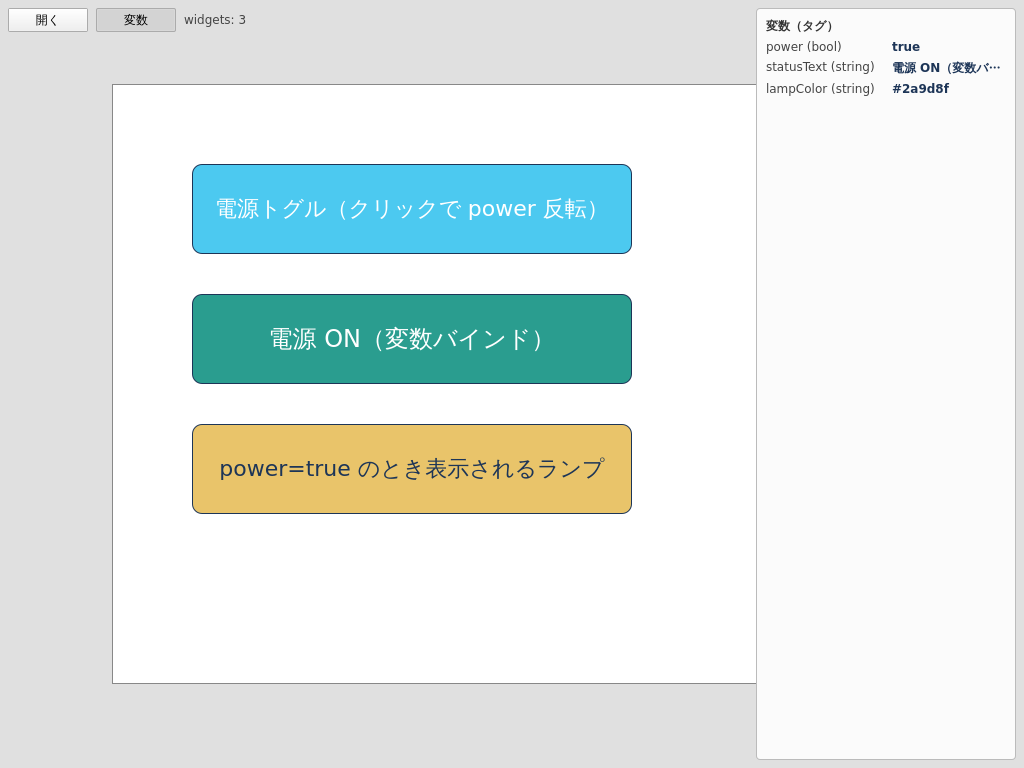
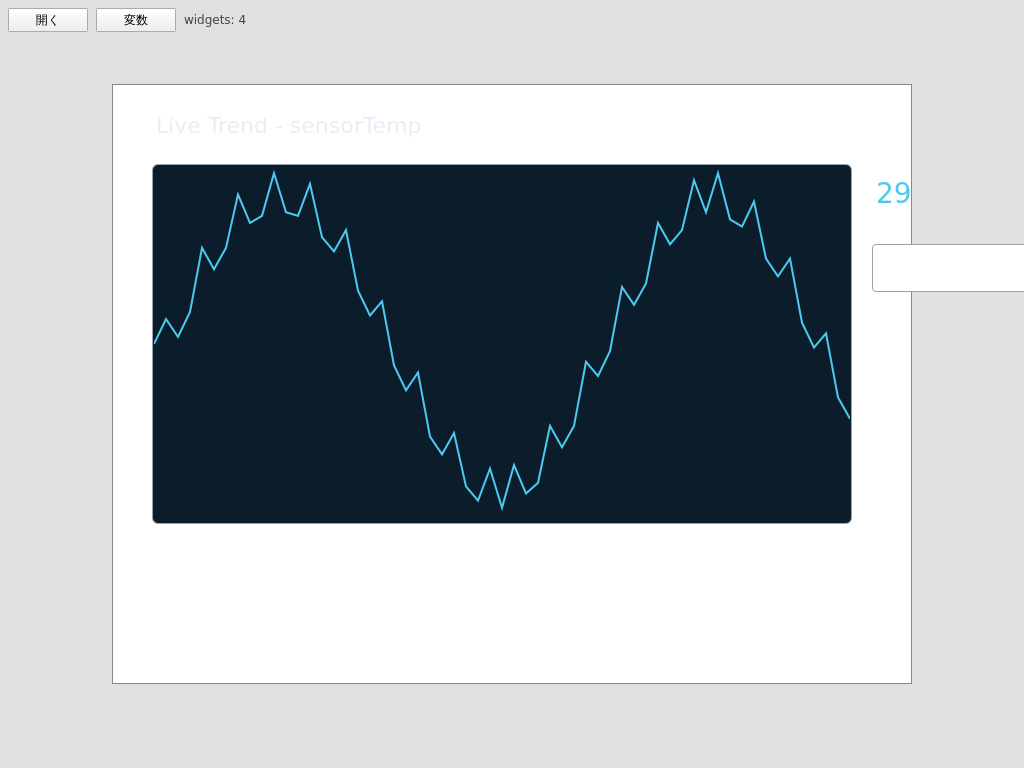
Task T-D: Trend cross-app ライブ E2E + simulator.png + Phase 8 完了同期
- tests/e2e/test_trend_live.py 新設：①Editor 段＝fixture を --open→saveTo→保存 JSON 直接
  assert（type:"Trend" / value binding / pointCount）②Simulator 段＝操作用 NumericField を
  setStringProperty+commitValue で 3 回（25/40/15）確定 → Trend(hmiTrend) の公開 sampleCount 増加・
  lastValue 追従を getStringProperty で観測（Canvas ピクセルは見ず公開プロパティで検証）
- tests/e2e/CMakeLists.txt：e2e_trend_live 登録（TIMEOUT 60 / LABELS e2e）
- simulator.png：Trend ライブ折れ線描画状態へ撮り直し（濃紺背景＋水色折れ線＋追従値）+ README キャプション
- 常駐文書を Phase 8 完了で同期（plan 進捗表 / CLAUDE.md 現在のフェーズ〔198 行〕/ README 現在地 +
  Widget 列挙に Trend 追加 / AGENTS スコープ / mvp-task-runner / development-history）

ctest 23/23 緑（unit 11 + e2e 12、e2e_trend_live 含む）。Schema/HmiTrend/delegate 無改変。

diff --git a/tests/e2e/test_trend_live.py b/tests/e2e/test_trend_live.py
@@ -1,0 +1,307 @@
+"""Phase 8 Task T-D: Trend のライブサンプリングを観測する cross-app E2E。
+
+Phase 8 で追加した新 Widget 種別「Trend」（QML ``Canvas`` 自描画のライブ折れ線）は、
+既存 ``bindings``（``{property:"value", variable:X}``）の「読み」を再利用して
+変数の現在値をサンプル源にする。本テストは Phase 8 の締めとして：
+
+1. **Editor 段（round-trip 担保）**：``sensorTemp``（int）変数と、それに ``value`` binding で
+   結ばれた Trend（``trend001``）+ 同じ変数に ``value`` binding で結ばれた操作用
+   NumericField（``feeder001``）を持つ JSON を Editor に ``--open`` で読ませ、
+   ``saveTo`` で別パスへ保存する。保存 JSON を Python で直接 assert：
+   ``type:"Trend"`` / Trend の value binding / ``pointCount`` が round-trip すること。
+2. **Simulator 段（本 E2E の主眼＝ライブサンプリング観測）**：保存 JSON を Simulator に
+   ``--open`` で読ませ、Trend（``HmiTrend``, objectName ``hmiTrend``）の初期 ``sampleCount`` を
+   ``getStringProperty`` で読む。Canvas のピクセルは offscreen で不可視なので **公開
+   プロパティ ``sampleCount`` / ``lastValue`` だけ**で「変数変化 → サンプル取り込み」を観測する。
+   操作用 NumericField の内部 ``TextField.text`` を ``setStringProperty`` で設定し
+   **公開メソッド ``commitValue()`` を ``invokeMethod`` で叩いて確定を模す**（Spix は
+   実テキスト入力 = ``editingFinished`` を発火できない＝Phase 6 Task 52 と同手法）。
+   確定で ``sensorTemp`` が更新され、Trend の delegate が ``boundValue("value")`` 経由で
+   ``value`` を更新 → HmiTrend の ``onValueChanged`` がリングバッファへ 1 点 push する。
+   これを **異なる値で複数回**繰り返し、各回で ``sampleCount`` が増加し ``lastValue`` が
+   最後に書いた値へ追従することを観測する。
+
+Canvas のピクセル検証はしない（offscreen で不可視）。観測は公開 int/real プロパティの
+文字列化（``getStringProperty``）に限る（plan §Task D「公開 ``sampleCount``/``lastValue`` を
+``getStringProperty`` で観測」）。
+
+Spix v0.14 制約・回避策は既存 E2E と同方針。実行環境：E2E は macOS / Linux
+（``HMI_ENABLE_E2E=ON``）のみ。Windows MinGW は除外。
+"""
+
+from __future__ import annotations
+
+import argparse
+import json
+import os
+import re
+import sys
+import tempfile
+import time
+
+from harness import call_method, spix_app
+
+_EDITOR_WIN = "hmiEditorWindow"
+_SIM_WIN = "hmiSimulatorWindow"
+
+# サンプル源変数（int）。操作用 NumericField で値を書き換えると、同じ変数を value binding で
+# 読む Trend が boundValue("value") 経由で取り込む。
+_VAR_NAME = "sensorTemp"
+_VAR_INITIAL = 10
+# 操作用 NumericField で順に確定する値（異なる値＝lastValue 追従を一意に観測できる）。
+_TYPED_SEQUENCE = ["25", "40", "15"]
+# Trend の点数（round-trip で保存 JSON に乗ることを assert する）。
+_POINT_COUNT = 80
+
+
+def _fixture_json() -> dict:
+    """sensorTemp 変数 + Trend（value binding）+ 操作用 NumericField（value binding）。"""
+    return {
+        "project": "Task T-D Trend live E2E",
+        "variables": [
+            {"name": _VAR_NAME, "type": "int", "initial": _VAR_INITIAL},
+        ],
+        "screens": [
+            {
+                "name": "Main",
+                "widgets": [
+                    {
+                        "id": "trend001",
+                        "type": "Trend",
+                        "x": 40,
+                        "y": 40,
+                        "width": 320,
+                        "height": 160,
+                        "backgroundColor": "#0b1d2a",
+                        "lineColor": "#4cc9f0",
+                        "pointCount": _POINT_COUNT,
+                        "yMin": 0,
+                        "yMax": 100,
+                        "bindings": [
+                            {"property": "value", "variable": _VAR_NAME}
+                        ],
+                    },
+                    {
+                        "id": "feeder001",
+                        "type": "NumericField",
+                        "x": 40,
+                        "y": 220,
+                        "width": 160,
+                        "height": 48,
+                        "text": "0",
+                        "bindings": [
+                            {"property": "value", "variable": _VAR_NAME}
+                        ],
+                    },
+                ],
+            }
+        ],
+    }
+
+
+def _get_str_property(url: str, path: str, prop: str) -> str:
+    """getStringProperty のレスポンスから文字列値を取り出す（既存 E2E と同方針）。
+
+    sampleCount（int）/ lastValue（real）も QVariant 文字列化で取得できる。
+    """
+    body = call_method(url, "getStringProperty", path, prop)
+    m = re.search(r"<value>(?:<string>)?(.*?)(?:</string>)?</value>", body, re.DOTALL)
+    if not m:
+        raise RuntimeError(
+            f"Failed to extract {prop} from {path}. Response head: {body[:300]!r}"
+        )
+    return m.group(1).strip()
+
+
+def _exists_and_visible(url: str, path: str) -> bool:
+    """対象パスの Item が存在し可視かを Spix の existsAndVisible で確認する。"""
+    body = call_method(url, "existsAndVisible", path)
+    return "<boolean>1</boolean>" in body
+
+
+def _invoke_save_to(url: str, save_path: str) -> bool:
+    """Editor Window の ``saveTo(path)`` を invokeMethod で呼び、成功可否を返す。"""
+    body = call_method(url, "invokeMethod", _EDITOR_WIN, "saveTo", [save_path])
+    if "<fault>" in body:
+        raise RuntimeError(f"invokeMethod returned fault. Body: {body[:500]!r}")
+    return "<boolean>1</boolean>" in body
+
+
+def _phase1_editor_roundtrips(editor_binary: str, port: int,
+                              fixture_path: str, save_path: str) -> None:
+    """Editor に fixture を ``--open`` で読ませ ``saveTo`` で保存する。
+
+    addWidget を呼ばないため Repeater 再生成の巻き戻り罠は発生しない
+    （test_numeric_input / test_action_roundtrip と同方針）。
+    """
+    with spix_app(editor_binary, port, extra_args=("--open", fixture_path)) as url:
+        call_method(url, "waitForItem", f"{_EDITOR_WIN}/widget_trend001", 3000)
+        if not _exists_and_visible(url, f"{_EDITOR_WIN}/widget_trend001"):
+            raise RuntimeError("Editor did not load fixture widget_trend001")
+        if not _exists_and_visible(url, f"{_EDITOR_WIN}/widget_feeder001"):
+            raise RuntimeError("Editor did not load fixture widget_feeder001")
+
+        if not _invoke_save_to(url, save_path):
+            err = call_method(url, "getErrors")
+            raise RuntimeError(
+                f"saveTo returned false for {save_path!r}. Errors: {err[:500]!r}"
+            )
+
+    if not os.path.isfile(save_path):
+        raise RuntimeError(f"saved JSON not found: {save_path}")
+
+
+def _assert_saved_json(save_path: str) -> None:
+    """保存 JSON に Trend / value binding / pointCount が乗っていることを直接検証する。"""
+    with open(save_path, encoding="utf-8") as f:
+        doc = json.load(f)
+
+    problems = []
+
+    variables = doc.get("variables", [])
+    var = next((v for v in variables if v.get("name") == _VAR_NAME), None)
+    if var is None:
+        problems.append(f"variable {_VAR_NAME!r} missing in saved JSON")
+    elif var.get("type") != "int":
+        problems.append(f"variable {_VAR_NAME!r} type={var.get('type')!r} != 'int'")
+
+    widgets = doc["screens"][0]["widgets"]
+
+    trend = next((w for w in widgets if w.get("id") == "trend001"), None)
+    if trend is None:
+        raise RuntimeError(f"trend001 not found in saved JSON: {save_path}")
+    if trend.get("type") != "Trend":
+        problems.append(f"trend001 type={trend.get('type')!r} != 'Trend'")
+    if trend.get("pointCount") != _POINT_COUNT:
+        problems.append(
+            f"trend001 pointCount={trend.get('pointCount')!r} != {_POINT_COUNT!r}"
+        )
+    tbind = next((b for b in trend.get("bindings", [])
+                  if b.get("property") == "value"), None)
+    if tbind is None or tbind.get("variable") != _VAR_NAME:
+        problems.append("trend001 value binding (sample source) missing/mismatched")
+
+    feeder = next((w for w in widgets if w.get("id") == "feeder001"), None)
+    if feeder is None:
+        problems.append("feeder001 (control NumericField) missing in saved JSON")
+    elif feeder.get("type") != "NumericField":
+        problems.append(f"feeder001 type={feeder.get('type')!r} != 'NumericField'")
+
+    if problems:
+        raise RuntimeError("saved JSON Trend mismatch: " + "; ".join(problems))
+
+
+def _get_int(url: str, path: str, prop: str) -> int:
+    """公開 int プロパティ（sampleCount 等）を取得して int 化する。"""
+    return int(_get_str_property(url, path, prop))
+
+
+def _get_num(url: str, path: str, prop: str) -> float:
+    """公開数値プロパティ（lastValue 等）を取得して float 化する。"""
+    return float(_get_str_property(url, path, prop))
+
+
+def _phase2_simulator_live(simulator_binary: str, port: int, save_path: str) -> None:
+    """Simulator を ``--open`` で起動し、変数変化 → Trend サンプル取り込みを観測する。"""
+    with spix_app(simulator_binary, port, extra_args=("--open", save_path)) as url:
+        trend = f"{_SIM_WIN}/widget_trend001/hmiTrend"
+        # NumericField は root（HmiNumericField, objectName "hmiNumericField"）を指す。
+        # commitValue() は root のメソッドなので invoke も root に対して行う
+        # （test_numeric_input / test_numeric_extend と同じ参照粒度）。
+        feeder = f"{_SIM_WIN}/widget_feeder001/hmiNumericField"
+        for p in (trend, feeder):
+            call_method(url, "waitForItem", p, 3000)
+        if not _exists_and_visible(url, f"{_SIM_WIN}/widget_trend001"):
+            raise RuntimeError(f"simulator missing widget_trend001. JSON: {save_path}")
+        if not _exists_and_visible(url, f"{_SIM_WIN}/widget_feeder001"):
+            raise RuntimeError(f"simulator missing widget_feeder001. JSON: {save_path}")
+
+        # 初期サンプル数を記録する。Trend は live:true なので value（= 変数初期値）への
+        # 初回バインド評価で 0〜1 点取り込まれている可能性がある。差分で増加を観測するため
+        # 絶対値ではなく初期値からの増分を見る。
+        prev_count = _get_int(url, trend, "sampleCount")
+
+        # 操作用 NumericField から同じ変数を異なる値で複数回確定する。各確定後に
+        # sampleCount が増加し lastValue が直近の書込値へ追従することを観測する。
+        for typed in _TYPED_SEQUENCE:
+            call_method(url, "setStringProperty", feeder, "text", typed)
+            body = call_method(url, "invokeMethod", feeder, "commitValue", [])
+            if "<fault>" in body:
+                raise RuntimeError(
+                    f"commitValue invokeMethod fault for {typed!r}. Body: {body[:500]!r}"
+                )
+
+            expected_last = float(typed)
+            deadline = time.monotonic() + 3.0
+            count = prev_count
+            last = None
+            while time.monotonic() < deadline:
+                count = _get_int(url, trend, "sampleCount")
+                last = _get_num(url, trend, "lastValue")
+                if count > prev_count and last == expected_last:
+                    break
+                time.sleep(0.05)
+
+            if not (count > prev_count):
+                raise RuntimeError(
+                    f"after commit {typed!r}: sampleCount={count} did not increase "
+                    f"from {prev_count} (variable change did not produce a sample)"
+                )
+            if last != expected_last:
+                raise RuntimeError(
+                    f"after commit {typed!r}: lastValue={last!r} != {expected_last!r} "
+                    "(Trend did not take the latest variable value as a sample)"
+                )
+            prev_count = count
+
+
+def main() -> int:
+    """fixture 生成 → Editor round-trip 保存 → JSON 検証 → Simulator ライブ観測。"""
+    parser = argparse.ArgumentParser(description=__doc__)
+    parser.add_argument("--editor-binary", required=True)
+    parser.add_argument("--simulator-binary", required=True)
+    parser.add_argument("--editor-port", type=int, default=9876)
+    parser.add_argument("--simulator-port", type=int, default=9877)
+    args = parser.parse_args()
+
+    fixture_path = ""
+    save_path = ""
+    try:
+        fd, fixture_path = tempfile.mkstemp(prefix="hmi_taskTD_fixture_", suffix=".json")
+        with os.fdopen(fd, "w", encoding="utf-8") as f:
+            json.dump(_fixture_json(), f, ensure_ascii=False, indent=2)
+
+        fd2, save_path = tempfile.mkstemp(prefix="hmi_taskTD_saved_", suffix=".json")
+        os.close(fd2)
+        os.unlink(save_path)
+
+        _phase1_editor_roundtrips(
+            args.editor_binary, args.editor_port, fixture_path, save_path
+        )
+        _assert_saved_json(save_path)
+        _phase2_simulator_live(
+            args.simulator_binary, args.simulator_port, save_path
+        )
+    except Exception as exc:
+        print(f"FAIL: {exc}", file=sys.stderr)
+        return 1
+    finally:
+        for p in (fixture_path, save_path):
+            if not p:
+                continue
+            try:
+                os.unlink(p)
+            except FileNotFoundError:
+                pass
+
+    print(
+        "OK: editor round-trips Trend/value-binding/pointCount -> saved JSON -> "
+        f"simulator commitValue drives {_VAR_NAME} through {_TYPED_SEQUENCE} -> "
+        "Trend takes live samples (sampleCount increases, lastValue follows) "
+        "via boundValue('value')"
+    )
+    return 0
+
+
+if __name__ == "__main__":
+    sys.exit(main())

diff --git a/CLAUDE.md b/CLAUDE.md
@@ -11,7 +11,7 @@
 
 Yocto / i.MX8M Plus 向け Qt6 HMI ランタイムを対象に、HMI 作画ツール（Editor）・PC 試験環境（Simulator）・実機ランタイム（Runtime）・JSON スキーマ（Shared/Schema）・共有 Widget（Shared/Widgets）を統合した開発基盤。詳細は [README.md](README.md)。タスクごとの時系列まとめ（目的 / PR / 成果物 / 学び）は [Docs/development-history.md](Docs/development-history.md) — 第三者説明用で、タスク完了時に当該 Task のエントリを追記する運用候補。**苦労の多かったタスク／フェーズでは、事実だけでなく「奮闘記」（postmortem）も残す**：障害の連鎖を「どう乗り越えたか・その時の判断と心境」まで物語として `Docs/<phase>-journey.md` に記録する（役割分担＝事実・罠は development-history / dev-environment.md、"どう抜けたか・心境" は奮闘記。初出は [Docs/phase3b-runtime-journey.md](Docs/phase3b-runtime-journey.md)）。**開発環境の現状（ホスト構成・ディスク事情・WSL/Yocto ビルド環境・実機 i.MX8MP の状態）は [.claude/rules/dev-environment.md](.claude/rules/dev-environment.md) に集約**（`.claude/rules/` は git 管理＋毎セッション自動読込される Claude Code のメモリ機構。Claude の自動メモリ `~/.claude/projects/.../memory/` はマシンローカルで Windows ↔ Mac を跨がないため、マシン横断の環境知識はこちらを正とする）。
 
-**現在のフェーズ**：**Phase 8 / トレンドグラフ（Trend・ライブ折れ線）に着手（2026-06-16 承認）。計画起票（[Docs/phase8-trend-plan.md](Docs/phase8-trend-plan.md)）。** 新 Widget 種別「Trend」を横展開テンプレ（型分岐の足場 + Schema 4 メソッド + インスペクタ型対応 + cross-app E2E）に乗せる。**描画は QML `Canvas` 自描画で新 Qt モジュール依存ゼロ**（QtCharts 不使用＝i.MX8MP rootfs にそのまま載る）。サンプル源は既存 `bindings` の「読み」を再利用（Schema/C++ ブリッジ無改変）。タスクは T-A 〔Schema 拡張〕→ T-B〔HmiTrend 描画 + 型分岐〕→ T-C〔Editor 追加 UI/インスペクタ〕→ T-D〔ライブ E2E + スクショ〕。次は T-A。進捗の正本は [Docs/phase8-trend-plan.md](Docs/phase8-trend-plan.md)「進捗」表。<br>**Phase 7 / Modbus TCP** は MB-1〜MB-4（書込 + 接続状態 + 自動再接続・書込 E2E `tests/e2e/test_modbus_write.py` 込み・PR #119/#121/#122）完了。残る MB-5〔実 PLC 書込確認〕/ MB-6〔実機 Yocto〕はローカル専用で Web 不可（実 PLC・WSL2/実機が要る）。詳細は [Docs/phase7-modbus-plan.md](Docs/phase7-modbus-plan.md)「進捗」表。step / decimals / unit・Gauge / Toggle・OPC-UA は引き続き別承認。**ローカル Windows で Modbus をビルドするには Qt の SerialBus / SerialPort モジュール導入が要る**（[.claude/rules/dev-environment.md](.claude/rules/dev-environment.md)）。
+**現在のフェーズ**：**Phase 8 / トレンドグラフ（Trend・ライブ折れ線）完了（2026-06-16 承認）。** 新 Widget 種別「Trend」を横展開テンプレ（型分岐の足場 + Schema 4 メソッド + インスペクタ型対応 + cross-app E2E）に乗せた。**描画は QML `Canvas` 自描画で新 Qt モジュール依存ゼロ**（QtCharts 不使用＝i.MX8MP rootfs にそのまま載る）。サンプル源は既存 `bindings` の「読み」を再利用（Schema/C++ ブリッジ無改変）。T-A〔Schema 拡張〕/ T-B〔HmiTrend 描画 + 型分岐〕/ T-C〔Editor 追加 UI/インスペクタ〕/ T-D〔ライブ E2E `e2e_trend_live` + スクショ〕完了。進捗の正本は [Docs/phase8-trend-plan.md](Docs/phase8-trend-plan.md)「進捗」表。**次フェーズは未承認＝候補（履歴永続化・複数系列・軸目盛り/凡例・Gauge / Toggle・NumericField の step/decimals/unit・OPC-UA）。自動着手せず先にユーザーとスコープ確定する。**<br>**Phase 7 / Modbus TCP** は MB-1〜MB-4（書込 + 接続状態 + 自動再接続・書込 E2E `tests/e2e/test_modbus_write.py` 込み・PR #119/#121/#122）完了。残る MB-5〔実 PLC 書込確認〕/ MB-6〔実機 Yocto〕はローカル専用で Web 不可（実 PLC・WSL2/実機が要る）。詳細は [Docs/phase7-modbus-plan.md](Docs/phase7-modbus-plan.md)「進捗」表。**ローカル Windows で Modbus をビルドするには Qt の SerialBus / SerialPort モジュール導入が要る**（[.claude/rules/dev-environment.md](.claude/rules/dev-environment.md)）。
 
 - **完了済み**：Phase 1〜3-B（MVP / テスト基盤 / E2E / Runtime・i.MX8MP 実機描画。Task 1〜24）、**Phase 4 / Button 縦スライス + 拡張**（Task 25〜43。色・フォント・ボーダー・配置・不透明度・状態/アクションを全レイヤ貫通させ「**Widget 追加テンプレ**」を確立、実機アクション動作撮影まで）、**インスペクタ UX 改善**（Task 44〜46。PR #94 / #99）、**Phase 5 / 横展開（Label）**（Task 47〜49 / PR #97・#98・#102。delegate の「型分岐の足場」を導入し横展開テンプレを確立。Label は表示専用＝binding の「読み」のみ）。
 - **Phase 6（入力 Widget・NumericField）完了**：[Docs/phase6-input-widget-plan.md](Docs/phase6-input-widget-plan.md)（Task 50〜52）。Label が binding の「読み」だけだったのに対し、NumericField は **読み（表示）+ 書き（入力確定で変数更新）の両用 binding** を担う初の入力 Widget。Simulator write 経路〔`writeBoundValue`〕+ Editor ツールバー「数値入力追加」+ インスペクタ型対応 + cross-app E2E〔`e2e_numeric_input`〕まで完了（int 変数のみ）。

diff --git a/.claude/agents/mvp-task-runner.md b/.claude/agents/mvp-task-runner.md
@@ -22,8 +22,8 @@ model: opus
 - **Phase 6 / 入力 Widget（NumericField）**：✅ **完了（Task 50〜52）**。最初の入力 Widget = NumericField（数値入力）。Label が binding の「読み」だけだったのに対し、NumericField は **読み（表示）+ 書き（入力確定で変数更新）の両用 binding** を担う初の入力 Widget。実現は **既存 `bindings` を読み書き両用に使う**ことで **Schema / C++ ブリッジ無改変**。`HmiNumericField` は Shared/Widgets が初めて QtQuick.Controls（TextField + IntValidator）に依存。MVP は **int 変数のみ**（real 型・min/max は別承認）。Task 50（描画）✅ / 51（write 経路 + Editor 追加 UI + インスペクタ型対応）✅ / 52（cross-app E2E `e2e_numeric_input`〔`commitValue()` を `invokeMethod` で typed-write を模す〕）✅。分割・進捗の正本は `Docs/phase6-input-widget-plan.md`。
 - **Phase 6-B / NumericField 拡張（real 型 + 数値範囲 min/max）**：✅ **完了**（Task 53 real・PR #112 / 54 min/max・PR #113 / 55 cross-app E2E + スクショ・PR #114）。分割・進捗の正本は `Docs/phase6b-numeric-extend-plan.md`。
 - **Phase 7 / Modbus TCP 通信**：✅ **Web 分完了（2026-06-16 承認）**。`hmi_simulator`/`hmi_runtime` が QtSerialBus（`QModbusTcpClient`）で Modbus マスタになり PLC レジスタを周期ポーリング/書込→既存の変数ストア + binding 経路へ。通信は Simulator 共有ソースに置き Editor は `Qt6::SerialBus` 非リンク。**MB-1〜MB-4（書込 + 接続状態 + 自動再接続・書込 E2E 込み・PR #119/#121/#122）完了。残る MB-5〔実 PLC 書込確認〕/ MB-6〔実機 Yocto〕はローカル専用＝Web 不可**（実 PLC・WSL2/実機が要る）。分割・進捗の正本は `Docs/phase7-modbus-plan.md`「進捗」表。
-- **Phase 8 / トレンドグラフ（Trend・ライブ折れ線）**：🚧 **着手中（2026-06-16 承認・計画起票）**。新 Widget 種別「Trend」を横展開テンプレに乗せる。**描画は QML `Canvas` 自描画で新 Qt モジュール依存ゼロ**（QtCharts 不使用＝実機にそのまま載る）。サンプル源は既存 `bindings` の「読み」を再利用（Schema/C++ ブリッジ無改変）。**T-A〔Schema 拡張〕→ T-B〔HmiTrend 描画 + 型分岐〕→ T-C〔Editor 追加 UI/インスペクタ〕→ T-D〔ライブ E2E + スクショ〕。次は T-A**。分割・進捗の正本は `Docs/phase8-trend-plan.md`「進捗」表。
-- **その他の次候補**：⛔ **未承認**。履歴永続化・複数系列、step / decimals / unit、後続入力 Widget（Gauge / Toggle）、OPC-UA 等はいずれも候補段階。**自動着手せず、先にユーザーとスコープを確定する**（CLAUDE.md「Must Always」）。
+- **Phase 8 / トレンドグラフ（Trend・ライブ折れ線）**：✅ **完了（2026-06-16 承認）**。新 Widget 種別「Trend」を横展開テンプレに乗せた。**描画は QML `Canvas` 自描画で新 Qt モジュール依存ゼロ**（QtCharts 不使用＝実機にそのまま載る）。サンプル源は既存 `bindings` の「読み」を再利用（Schema/C++ ブリッジ無改変）。**T-A〔Schema 拡張〕/ T-B〔HmiTrend 描画 + 型分岐〕/ T-C〔Editor 追加 UI/インスペクタ〕/ T-D〔ライブ E2E `e2e_trend_live` + simulator.png スクショ〕完了**（Web `ctest` 23/23 緑）。分割・進捗の正本は `Docs/phase8-trend-plan.md`「進捗」表。
+- **その他の次候補**：⛔ **未承認**。履歴永続化・複数系列・軸目盛り/凡例、step / decimals / unit、後続入力 Widget（Gauge / Toggle）、OPC-UA 等はいずれも候補段階。**自動着手せず、先にユーザーとスコープを確定する**（CLAUDE.md「Must Always」）。
 
 ## 実行手順
 

diff --git a/Docs/development-history.md b/Docs/development-history.md
@@ -358,8 +358,9 @@ timeline
 
 **計画書**：[Docs/phase8-trend-plan.md](phase8-trend-plan.md)（T-A〜T-D。2026-06-16 ユーザー要望「トレンドグラフ欲しい」+ スコープ 2 問確定で着手）
 
-- 🚧 着手中（計画起票）。新 Widget 種別「Trend」を Phase 5（Label）/ Phase 6（NumericField）の **横展開テンプレ**（型分岐の足場 + Schema 4 メソッド + インスペクタ型対応 + cross-app E2E）に乗せる。**ライブのみ**（bound 変数を変更時/周期サンプリングしリングバッファに直近 N 点保持、履歴永続化は非スコープ）。**描画は QML `Canvas` 自描画で新 Qt モジュール依存ゼロ**（QtCharts 不使用＝Phase 7 の QtSerialBus 同梱問題を構造的に回避し i.MX8MP rootfs にそのまま載る）。サンプル源は既存 `bindings` の「読み」を再利用するため **Schema / C++ ブリッジは無改変**。Canvas はピクセル不可視のため、E2E は公開プロパティ（`sampleCount`/`lastValue`）でサンプル取り込みを観測する。
-  - **タスク**：T-A（Schema 拡張：`type:"Trend"` + `pointCount`/Y軸 min·max〔presence フラグ〕/線色/`sampleMs`）/ T-B（`HmiTrend.qml` Canvas 描画 + delegate 4 分岐目）/ T-C（Editor 追加 UI + インスペクタ型対応）/ T-D（cross-app E2E + スクショ）。すべて Web 可。
+- ✅ 完了（T-A〜T-D）。新 Widget 種別「Trend」を Phase 5（Label）/ Phase 6（NumericField）の **横展開テンプレ**（型分岐の足場 + Schema 4 メソッド + インスペクタ型対応 + cross-app E2E）に乗せた。**ライブのみ**（bound 変数を変更時/周期サンプリングしリングバッファに直近 N 点保持、履歴永続化は非スコープ）。**描画は QML `Canvas` 自描画で新 Qt モジュール依存ゼロ**（QtCharts 不使用＝Phase 7 の QtSerialBus 同梱問題を構造的に回避し i.MX8MP rootfs にそのまま載る）。サンプル源は既存 `bindings` の「読み」を再利用するため **Schema / C++ ブリッジは無改変**。Canvas はピクセル不可視のため、E2E は公開プロパティ（`sampleCount`/`lastValue`）でサンプル取り込みを観測する。
+  - **タスク**：T-A（Schema 拡張：`type:"Trend"` + `pointCount`/Y軸 min·max〔presence フラグ〕/線色/`sampleMs`・PR #127）/ T-B（`HmiTrend.qml` Canvas 描画 + delegate 4 分岐目・PR #128）/ T-C（Editor 追加 UI + インスペクタ型対応・PR #130）/ T-D（cross-app E2E `tests/e2e/test_trend_live.py`〔`e2e_trend_live`〕+ `simulator.png` ライブ折れ線スクショ）。すべて Web 可。
+  - **学び**：Spix の `getStringProperty` は int（`sampleCount`）/ real（`lastValue`）プロパティも QVariant 文字列化で取得でき、Canvas 非可視でも公開プロパティだけで「変数変化 → サンプル取り込み」を観測できる。simulator.png は使い捨て Spix スクリプトで操作用 NumericField を `commitValue()` 連打してサンプルを溜め `takeScreenshotAsBase64` で撮ると、ライブ折れ線が描かれた状態を残せる。Web `ctest` 23/23 緑。
 
 ---
 

diff --git a/Docs/phase8-trend-plan.md b/Docs/phase8-trend-plan.md
@@ -161,7 +161,13 @@ delegate は Loader 三項 + inline Component に **4 分岐目** `trendComponen
 | T-A Schema 拡張（trend フィールド round-trip） | 完了 | #127 |
 | T-B 型分岐の足場 + HmiTrend 描画（Canvas） | 完了 | #128 |
 | T-C Editor 追加 UI + インスペクタ型対応 | 実装済み（レビュー中） | #130 |
-| T-D cross-app E2E（ライブサンプリング）+ スクショ | 未着手 | — |
+| T-D cross-app E2E（ライブサンプリング）+ スクショ | 実装済み（レビュー中） | — |
+
+**Phase 8 完了**（T-A〜T-D）。`tests/e2e/test_trend_live.py`（`e2e_trend_live`）で Editor round-trip
+（`type:"Trend"` / value binding / `pointCount`）→ Simulator で操作用 NumericField の `commitValue()`
+を複数回叩いて変数を変化させ、Trend の公開 `sampleCount` 増加・`lastValue` 追従を `getStringProperty`
+で観測。Web `ctest` 23/23 緑。`simulator.png` を Trend ライブ折れ線描画状態へ更新。
+次フェーズ候補（下記「非スコープ」）は未承認＝先にスコープ確定する。
 
 ## 非スコープ（別承認）
 
